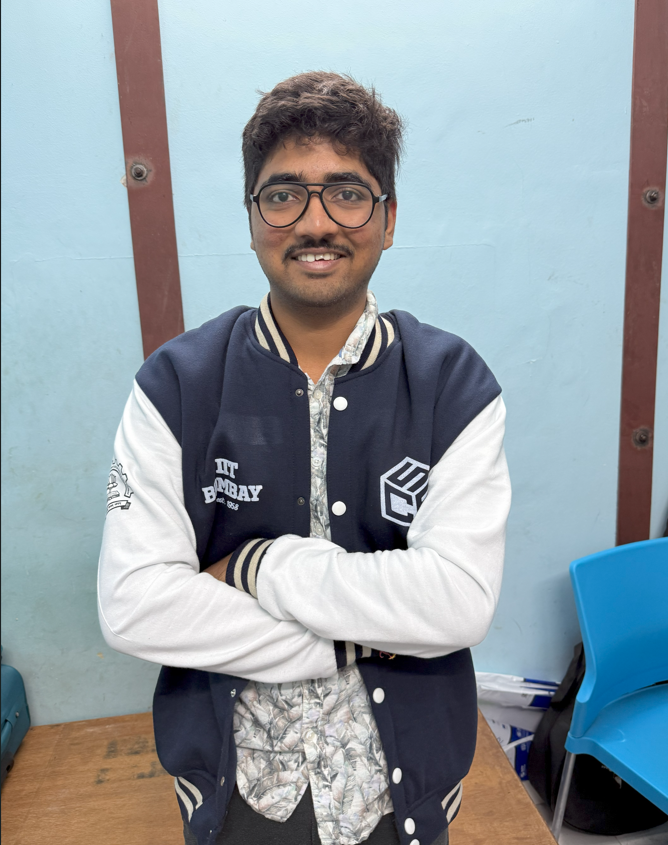
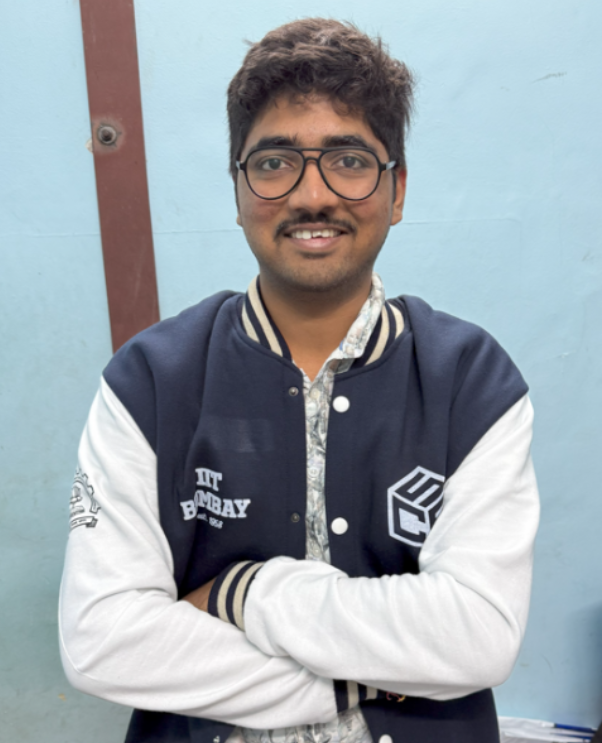
updated route and image

diff --git a/src/components/Navbar/Navbar.jsx b/src/components/Navbar/Navbar.jsx
@@ -59,7 +59,7 @@ const Navbar = () => {
                     <li><Link to="/ComingSoon" onClick={() => setIsMenuOpen(false)}>IIT News</Link></li>
                     {/* <li><Link to="/ComingSoon" onClick={() => setIsMenuOpen(false)}>Talk to an IITian</Link></li> */}
                     <li><Link to="/Contact-Us" onClick={() => setIsMenuOpen(false)}>Contact Us</Link></li>
-                    <li><Link to="/SeminarPage" onClick={() => setIsMenuOpen(false)}>Seminar</Link></li>
+                    <li><Link to="/seminar" onClick={() => setIsMenuOpen(false)}>Seminar</Link></li>
 
                     {isLoggedIn ? (
                         <button className="cta logout login-size" onClick={() => { handleLogout(); setIsMenuOpen(false); }}>Sign Out</button>

diff --git a/src/App.js b/src/App.js
@@ -69,7 +69,7 @@ function App() {
           <Route path="/Cancellation-and-Refund" element={<CancellationRefundPolicy />} />
           <Route path="/Terms-and-Conditions" element={<TermsAndConditions />} />
           <Route path="/ComingSoon" element={<ComingSoon />} />
-          <Route path="/SeminarPage" element={<SeminarPage />} />
+          <Route path="/seminar" element={<SeminarPage />} />
           {/* Add other routes as needed */}
         </Routes>
       </Layout>
